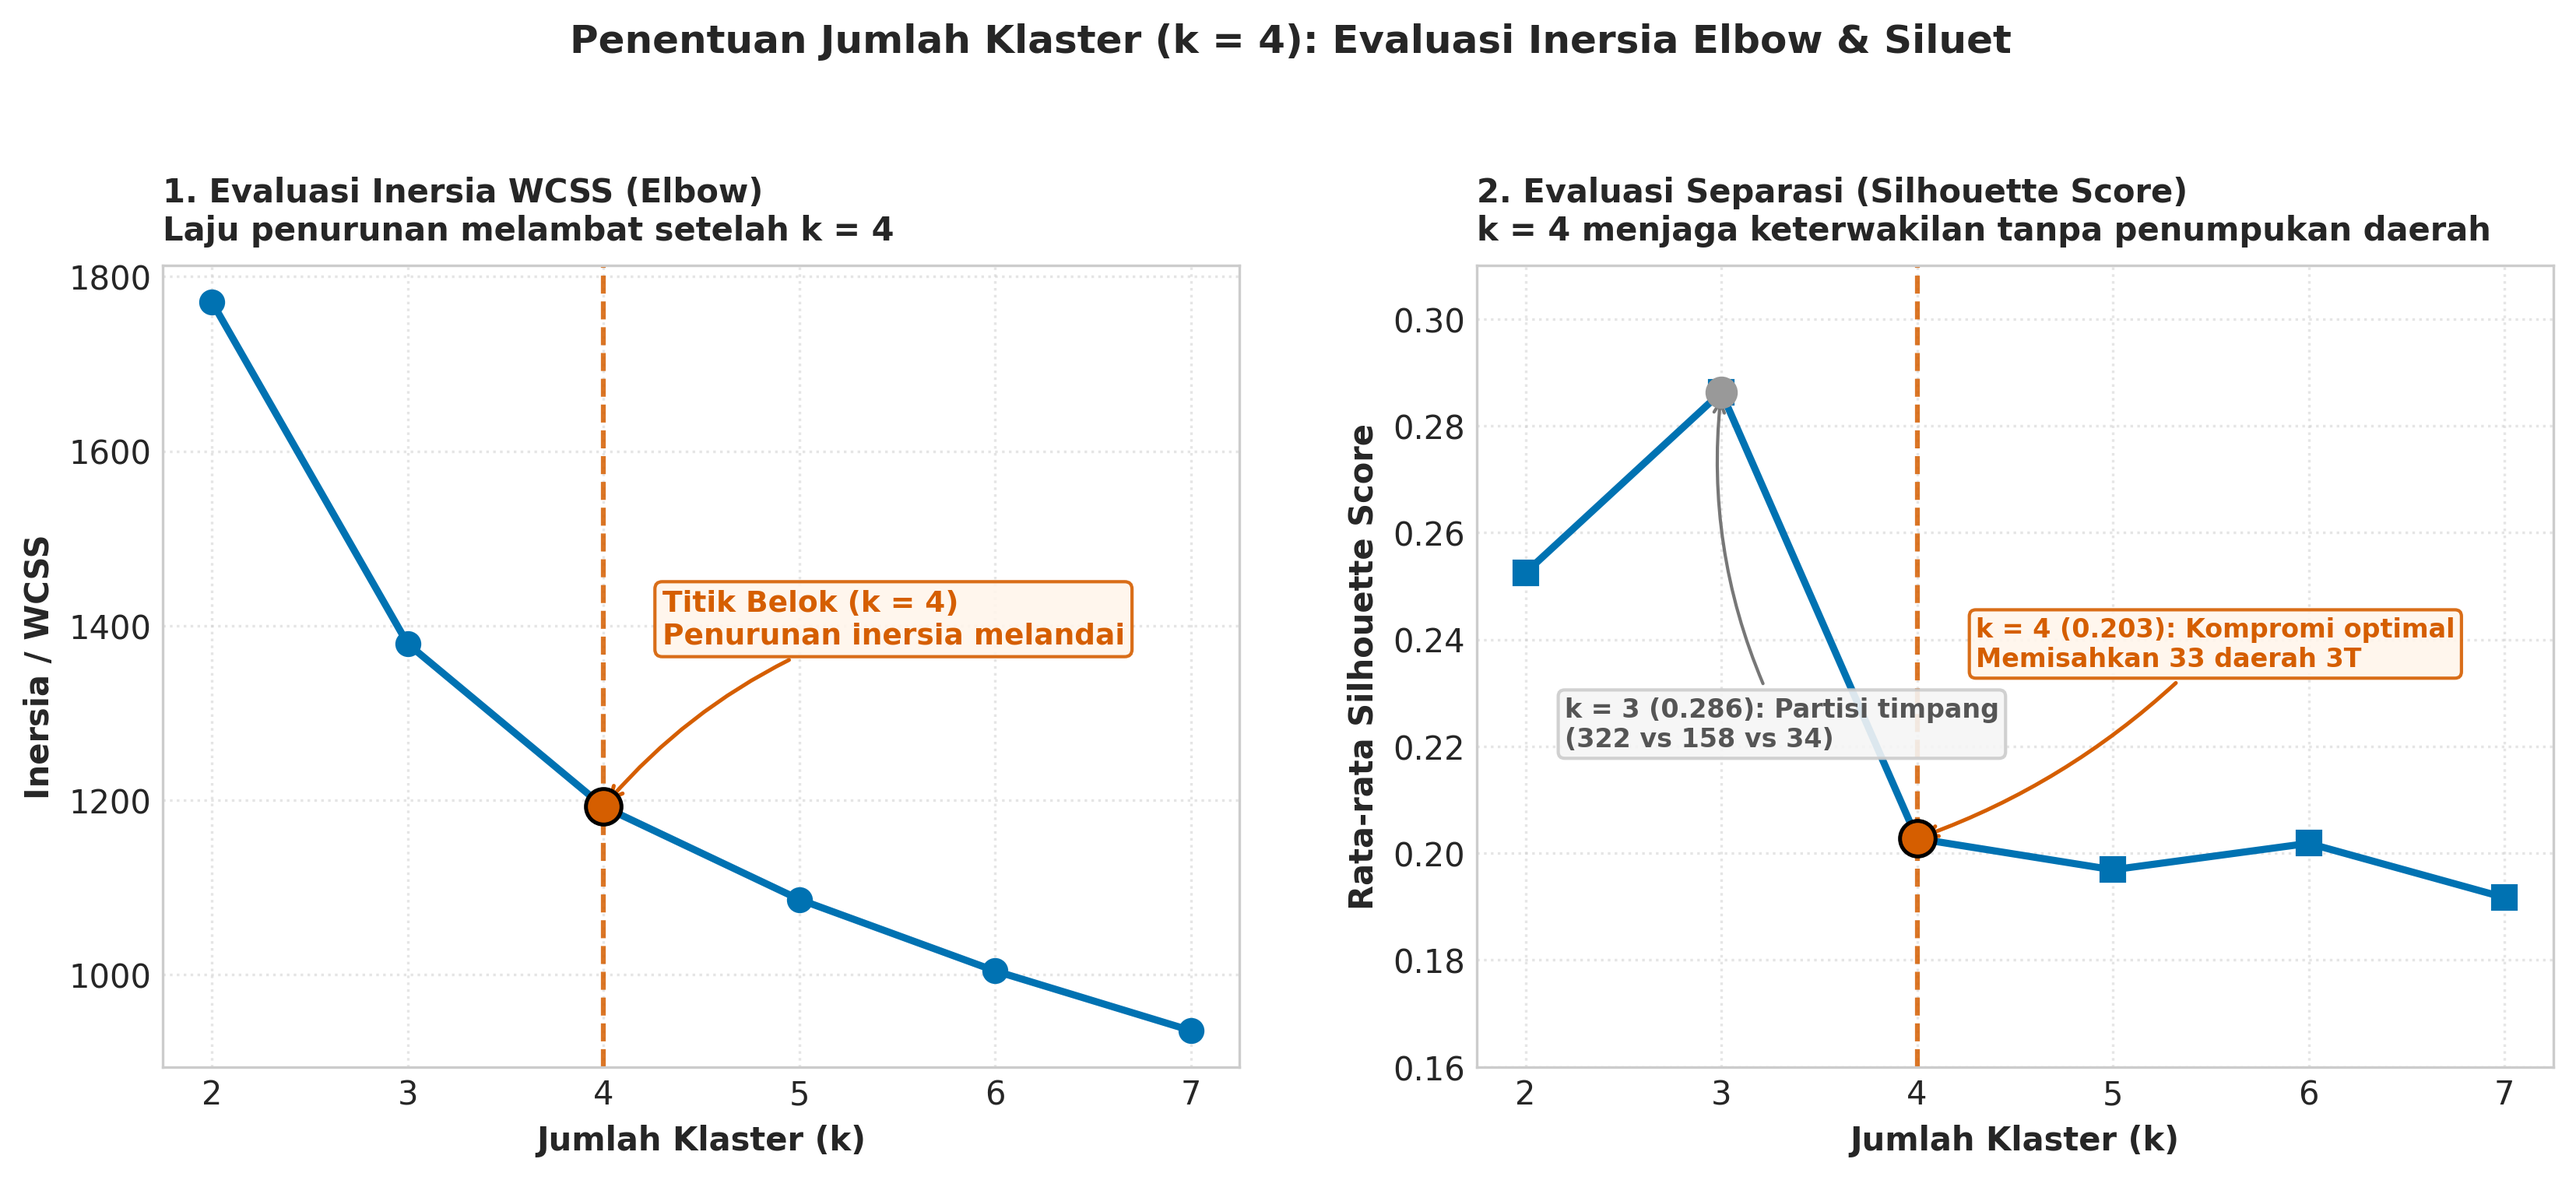
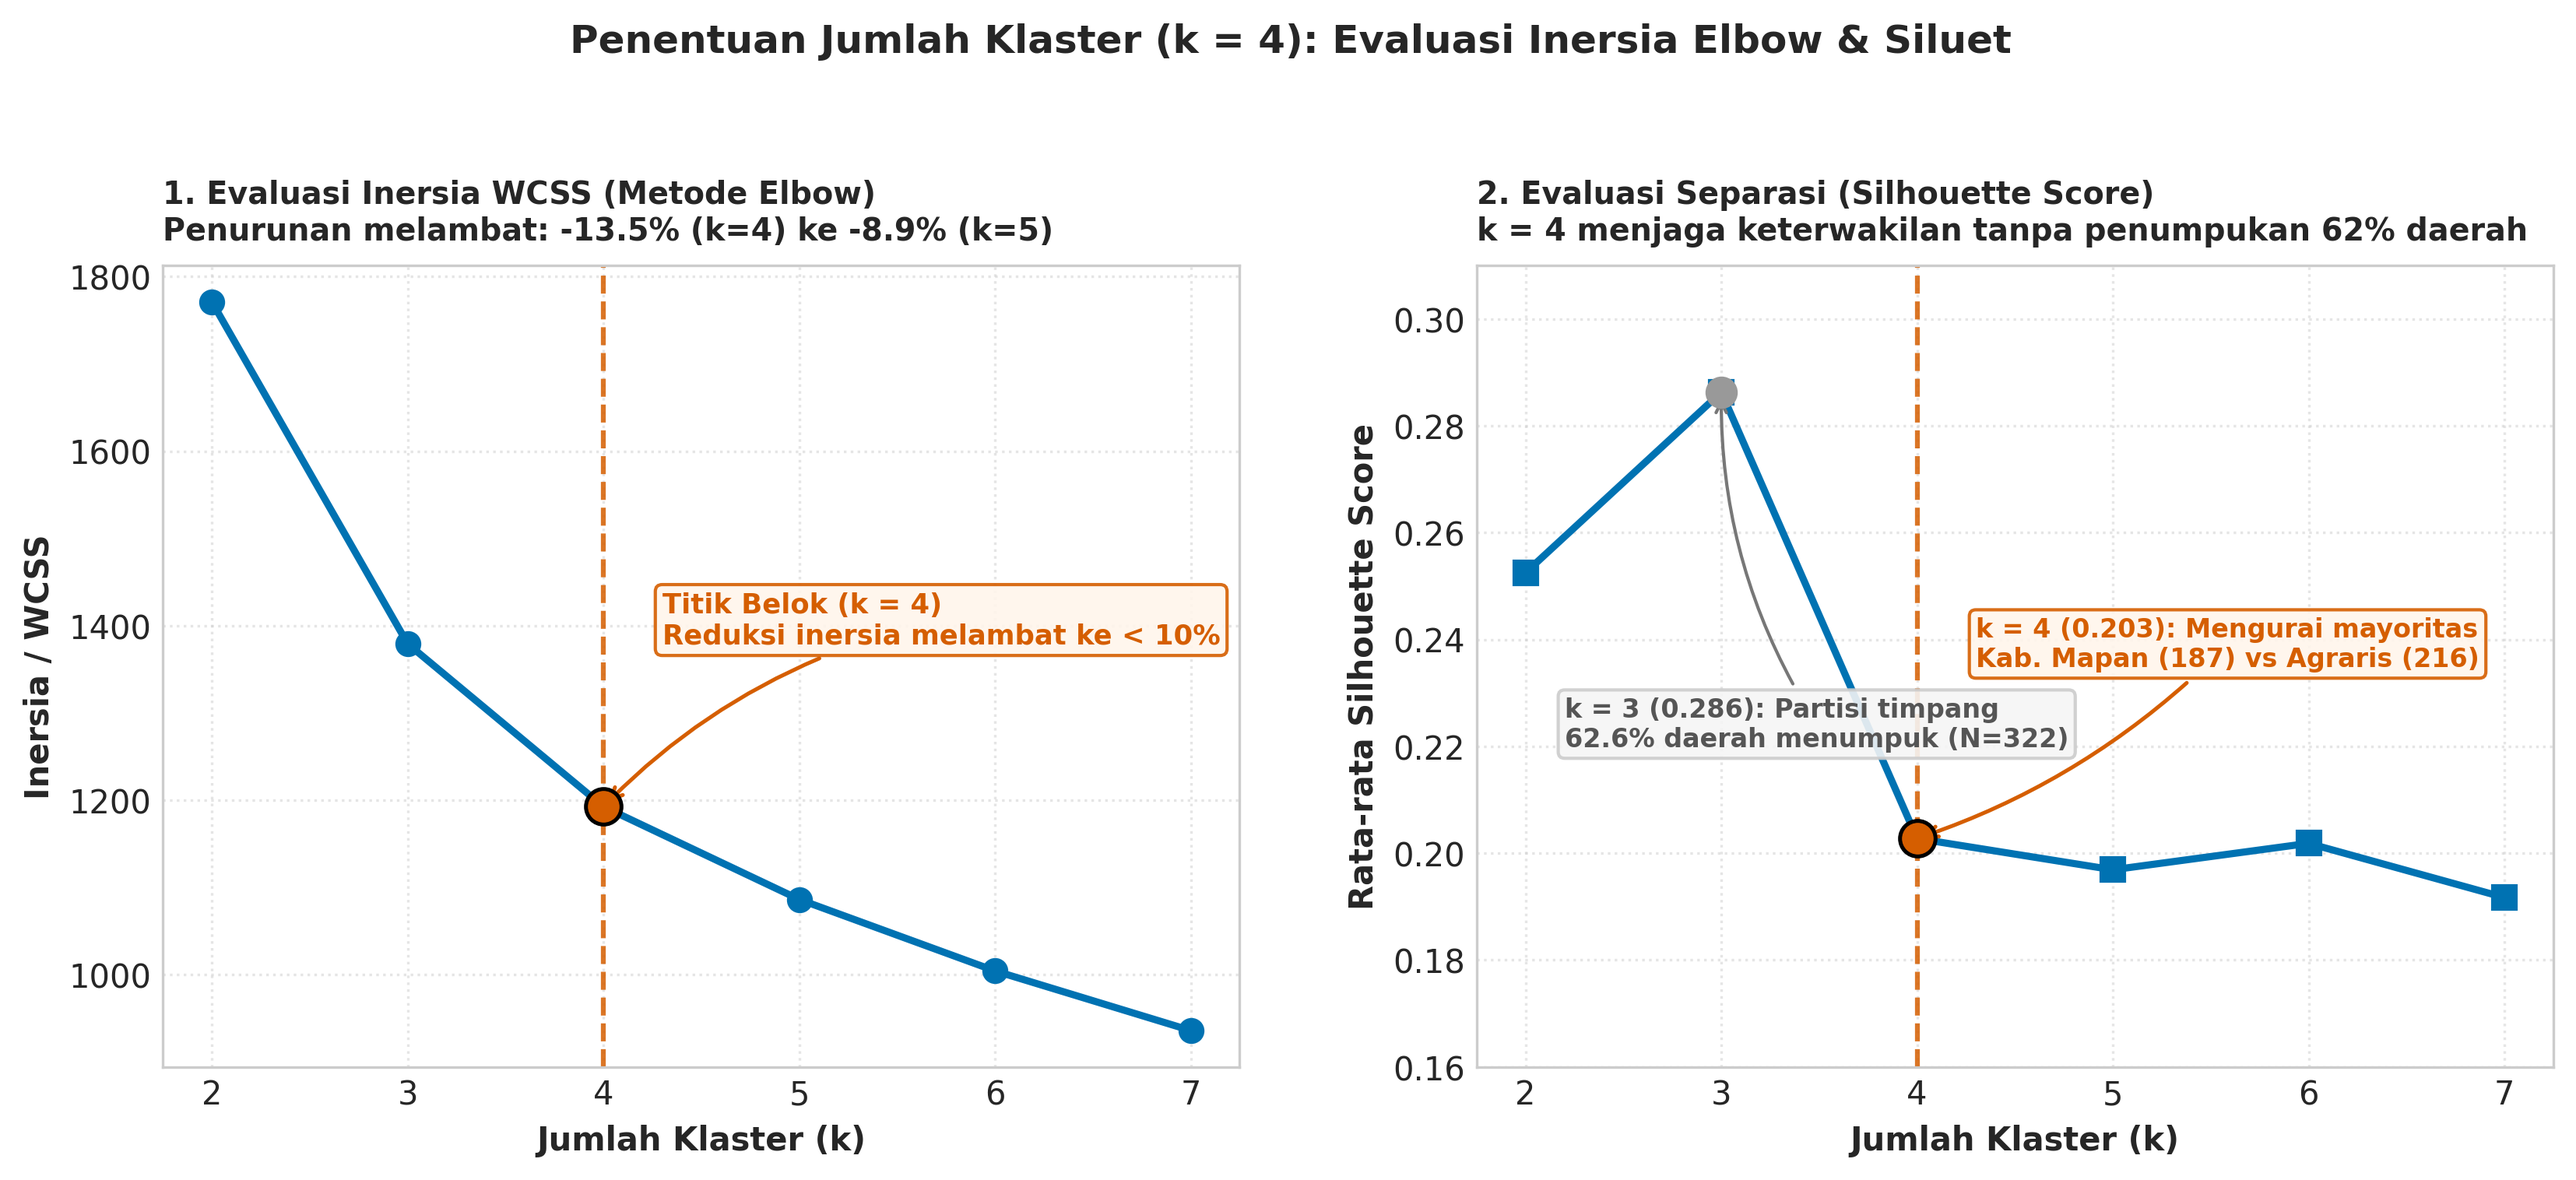
style(viz): add exact inertia drop percentages and correct cluster partitioning annotation

diff --git a/src/poverty_radar/visualization/plots.py b/src/poverty_radar/visualization/plots.py
@@ -52,13 +52,13 @@ def plot_elbow_and_silhouette(X_scaled: np.ndarray, save_path: Optional[Path] = 
     ax1.plot(k_range, inertia_km, marker='o', markersize=7, color='#0072B2', linewidth=2.2)
     ax1.axvline(x=4, color='#D55E00', linestyle='--', linewidth=1.5, alpha=0.85)
     ax1.scatter([4], [inertia_km[2]], color='#D55E00', s=120, zorder=5, edgecolor='black', linewidth=1.2)
-    ax1.annotate('Titik Belok (k = 4)\nPenurunan inersia melandai',
+    ax1.annotate('Titik Belok (k = 4)\nReduksi inersia melambat ke < 10%',
                  xy=(4, inertia_km[2]), xytext=(4.3, 1380),
-                 fontsize=9, fontweight='bold', color='#D55E00',
+                 fontsize=8.5, fontweight='bold', color='#D55E00',
                  arrowprops=dict(arrowstyle='->', connectionstyle='arc3,rad=0.15', color='#D55E00', lw=1.2),
                  bbox=dict(boxstyle='round,pad=0.25', facecolor='#FFF5EB', edgecolor='#D55E00', alpha=0.9))
-    ax1.set_title('1. Evaluasi Inersia WCSS (Elbow)\nLaju penurunan melambat setelah k = 4',
-                  fontsize=10, fontweight='bold', loc='left', pad=8)
+    ax1.set_title('1. Evaluasi Inersia WCSS (Metode Elbow)\nPenurunan melambat: -13.5% (k=4) ke -8.9% (k=5)',
+                  fontsize=9.5, fontweight='bold', loc='left', pad=8)
     ax1.set_xlabel('Jumlah Klaster (k)', fontsize=10, fontweight='bold')
     ax1.set_ylabel('Inersia / WCSS', fontsize=10, fontweight='bold')
     ax1.set_xticks(k_range)
@@ -69,18 +69,18 @@ def plot_elbow_and_silhouette(X_scaled: np.ndarray, save_path: Optional[Path] = 
     ax2.axvline(x=4, color='#D55E00', linestyle='--', linewidth=1.5, alpha=0.85)
     ax2.scatter([4], [sil_km[2]], color='#D55E00', s=120, zorder=5, edgecolor='black', linewidth=1.2)
     ax2.scatter([3], [sil_km[1]], color='#999999', s=80, zorder=4)
-    ax2.annotate('k = 3 (0.286): Partisi timpang\n(322 vs 158 vs 34)',
+    ax2.annotate('k = 3 (0.286): Partisi timpang\n62.6% daerah menumpuk (N=322)',
                  xy=(3, sil_km[1]), xytext=(2.2, 0.22),
                  fontsize=8, fontweight='bold', color='#555555',
                  arrowprops=dict(arrowstyle='->', connectionstyle='arc3,rad=-0.15', color='#777777', lw=1.0),
                  bbox=dict(boxstyle='round,pad=0.25', facecolor='#F5F5F5', edgecolor='#CCCCCC', alpha=0.9))
-    ax2.annotate('k = 4 (0.203): Kompromi optimal\nMemisahkan 33 daerah 3T',
+    ax2.annotate('k = 4 (0.203): Mengurai mayoritas\nKab. Mapan (187) vs Agraris (216)',
                  xy=(4, sil_km[2]), xytext=(4.3, 0.235),
                  fontsize=8, fontweight='bold', color='#D55E00',
                  arrowprops=dict(arrowstyle='->', connectionstyle='arc3,rad=-0.12', color='#D55E00', lw=1.2),
                  bbox=dict(boxstyle='round,pad=0.25', facecolor='#FFF5EB', edgecolor='#D55E00', alpha=0.9))
-    ax2.set_title('2. Evaluasi Separasi (Silhouette Score)\nk = 4 menjaga keterwakilan tanpa penumpukan daerah',
-                  fontsize=10, fontweight='bold', loc='left', pad=8)
+    ax2.set_title('2. Evaluasi Separasi (Silhouette Score)\nk = 4 menjaga keterwakilan tanpa penumpukan 62% daerah',
+                  fontsize=9.5, fontweight='bold', loc='left', pad=8)
     ax2.set_xlabel('Jumlah Klaster (k)', fontsize=10, fontweight='bold')
     ax2.set_ylabel('Rata-rata Silhouette Score', fontsize=10, fontweight='bold')
     ax2.set_xticks(k_range)
